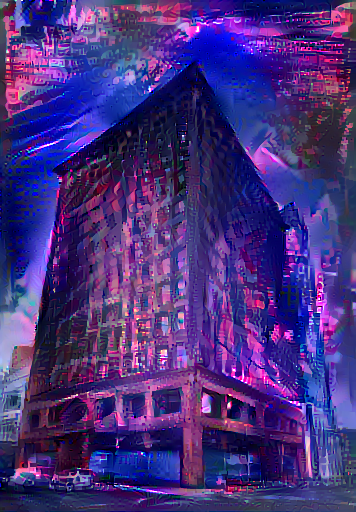
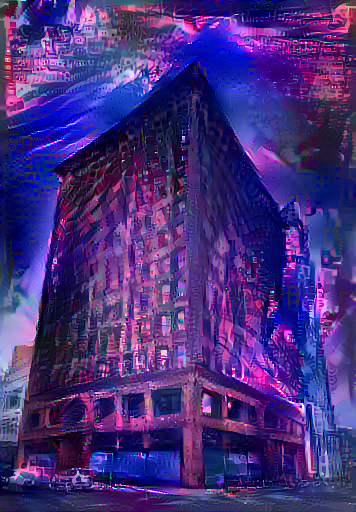
minor tweaks and updates

diff --git a/nstgpu.py b/nstgpu.py
@@ -1,32 +1,31 @@
 import os
 import tensorflow as tf
-
-os.environ['TFHUB_MODEL_LOAD_FORMAT'] = 'COMPRESSED'
+import numpy as np
+import PIL.Image
+import time
 import IPython.display as display
 import matplotlib.pyplot as plt
 import matplotlib as mpl
 
+os.environ['TFHUB_MODEL_LOAD_FORMAT'] = 'COMPRESSED'
+
 mpl.rcParams['figure.figsize'] = (12, 12)
 mpl.rcParams['axes.grid'] = False
-
-import numpy as np
-import PIL.Image
-import time
 
 content_path = "example.jpg"
 style_path = "style2.jpg"
 epochs = 10
 steps_per_epoch = 500
 
-
 tf.keras.backend.clear_session()
 
-#Restricting maximum VRAM available for tensorflow
+# Restricting maximum VRAM available for tensorflow
+# Just a precaution
 gpus = tf.config.experimental.list_physical_devices('GPU')
 if gpus:
     try:
         tf.config.experimental.set_virtual_device_configuration(gpus[0], [
-            tf.config.experimental.VirtualDeviceConfiguration(memory_limit=2048)])
+            tf.config.experimental.VirtualDeviceConfiguration(memory_limit=5000)])
     except RuntimeError as e:
         print(e)
 
@@ -212,92 +211,86 @@ def train_step(image):
     image.assign(clip_0_1(image))
 
 
-train_step(image)
-train_step(image)
-train_step(image)
-tensor_to_image(image)
-
-
-def high_pass_x_y(image):
-  x_var = image[:, :, 1:, :] - image[:, :, :-1, :]
-  y_var = image[:, 1:, :, :] - image[:, :-1, :, :]
-
-  return x_var, y_var
-
-
-x_deltas, y_deltas = high_pass_x_y(content_image)
-
-plt.figure(figsize=(14, 10))
-plt.subplot(2, 2, 1)
-imshow(clip_0_1(2*y_deltas+0.5), "Horizontal Deltas: Original")
-
-plt.subplot(2, 2, 2)
-imshow(clip_0_1(2*x_deltas+0.5), "Vertical Deltas: Original")
-
-x_deltas, y_deltas = high_pass_x_y(image)
-
-plt.subplot(2, 2, 3)
-imshow(clip_0_1(2*y_deltas+0.5), "Horizontal Deltas: Styled")
-
-plt.subplot(2, 2, 4)
-imshow(clip_0_1(2*x_deltas+0.5), "Vertical Deltas: Styled")
-
-plt.figure(figsize=(14, 10))
-
-sobel = tf.image.sobel_edges(content_image)
-plt.subplot(1, 2, 1)
-imshow(clip_0_1(sobel[..., 0]/4+0.5), "Horizontal Sobel-edges")
-plt.subplot(1, 2, 2)
-imshow(clip_0_1(sobel[..., 1]/4+0.5), "Vertical Sobel-edges")
-
-
-def total_variation_loss(image):
-  x_deltas, y_deltas = high_pass_x_y(image)
-  return tf.reduce_sum(tf.abs(x_deltas)) + tf.reduce_sum(tf.abs(y_deltas))
-
-total_variation_loss(image).numpy()
-
+#
+# def high_pass_x_y(image):
+#     x_var = image[:, :, 1:, :] - image[:, :, :-1, :]
+#     y_var = image[:, 1:, :, :] - image[:, :-1, :, :]
+#     return x_var, y_var
+#
+#
+# x_deltas, y_deltas = high_pass_x_y(content_image)
+#
+# plt.figure(figsize=(14, 10))
+# plt.subplot(2, 2, 1)
+# imshow(clip_0_1(2 * y_deltas + 0.5), "Horizontal Deltas: Original")
+#
+# plt.subplot(2, 2, 2)
+# imshow(clip_0_1(2 * x_deltas + 0.5), "Vertical Deltas: Original")
+#
+# x_deltas, y_deltas = high_pass_x_y(image)
+#
+# plt.subplot(2, 2, 3)
+# imshow(clip_0_1(2 * y_deltas + 0.5), "Horizontal Deltas: Styled")
+#
+# plt.subplot(2, 2, 4)
+# imshow(clip_0_1(2 * x_deltas + 0.5), "Vertical Deltas: Styled")
+#
+# plt.figure(figsize=(14, 10))
+#
+# sobel = tf.image.sobel_edges(content_image)
+# plt.subplot(1, 2, 1)
+# imshow(clip_0_1(sobel[..., 0] / 4 + 0.5), "Horizontal Sobel-edges")
+# plt.subplot(1, 2, 2)
+# imshow(clip_0_1(sobel[..., 1] / 4 + 0.5), "Vertical Sobel-edges")
+# plt.show()
+#
+# def total_variation_loss(image):
+#     x_deltas, y_deltas = high_pass_x_y(image)
+#     return tf.reduce_sum(tf.abs(x_deltas)) + tf.reduce_sum(tf.abs(y_deltas))
+#
+#
+# total_variation_loss(image).numpy()
+#
 tf.image.total_variation(image).numpy()
 
-total_variation_weight=30
+total_variation_weight = 30
 
 
 @tf.function()
 def train_step(image):
-  with tf.GradientTape() as tape:
-    outputs = extractor(image)
-    loss = style_content_loss(outputs)
-    loss += total_variation_weight*tf.image.total_variation(image)
+    with tf.GradientTape() as tape:
+        outputs = extractor(image)
+        loss = style_content_loss(outputs)
+        loss += total_variation_weight * tf.image.total_variation(image)
 
-  grad = tape.gradient(loss, image)
-  opt.apply_gradients([(grad, image)])
-  image.assign(clip_0_1(image))
+    grad = tape.gradient(loss, image)
+    opt.apply_gradients([(grad, image)])
+    image.assign(clip_0_1(image))
 
-opt = tf.keras.optimizers.Adam(learning_rate=0.02, beta_1=0.99, epsilon=1e-1)
+
 image = tf.Variable(content_image)
 
 start = time.time()
 
 step = 0
 for n in range(epochs):
-  for m in range(steps_per_epoch):
-    step += 1
-    train_step(image)
-    print(".", end='', flush=True)
-  display.clear_output(wait=True)
-  display.display(tensor_to_image(image))
-  print("Train step: {}".format(step))
+    for m in range(steps_per_epoch):
+        step += 1
+        train_step(image)
+        print(".", end='', flush=True)
+    display.clear_output(wait=True)
+    display.display(tensor_to_image(image))
+    print("Train step: {}".format(step))
 
 end = time.time()
-print("Total time: {:.1f}".format(end-start))
+print("Total time: {:.1f}".format(end - start))
 
-
-file_name = 'stylized-image3.png'
+file_name = 'stylized-image4.png'
 tensor_to_image(image).save(file_name)
 
 try:
-  from google.colab import files
+    from google.colab import files
 except ImportError:
-   pass
+    pass
 else:
-  files.download(file_name)
+    files.download(file_name)
